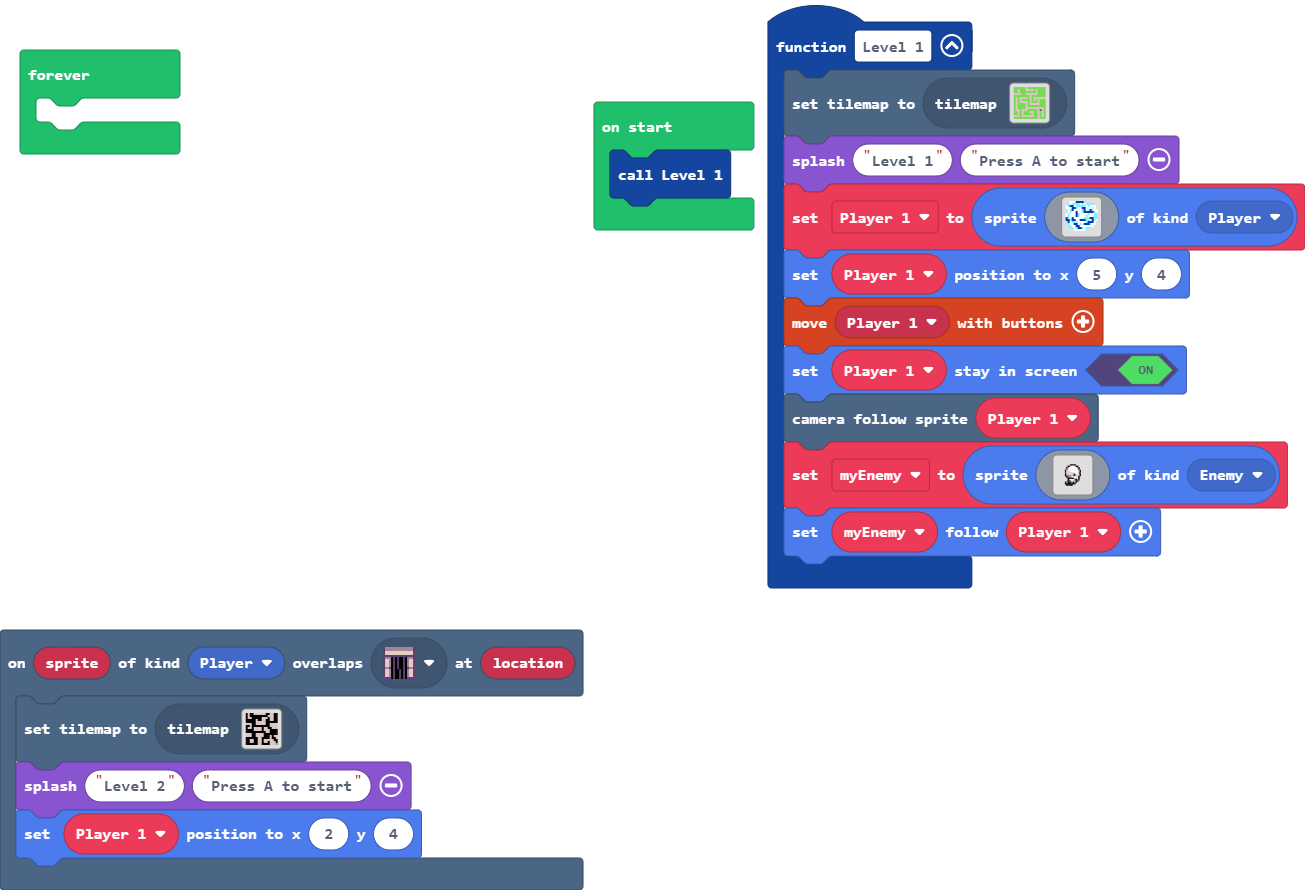
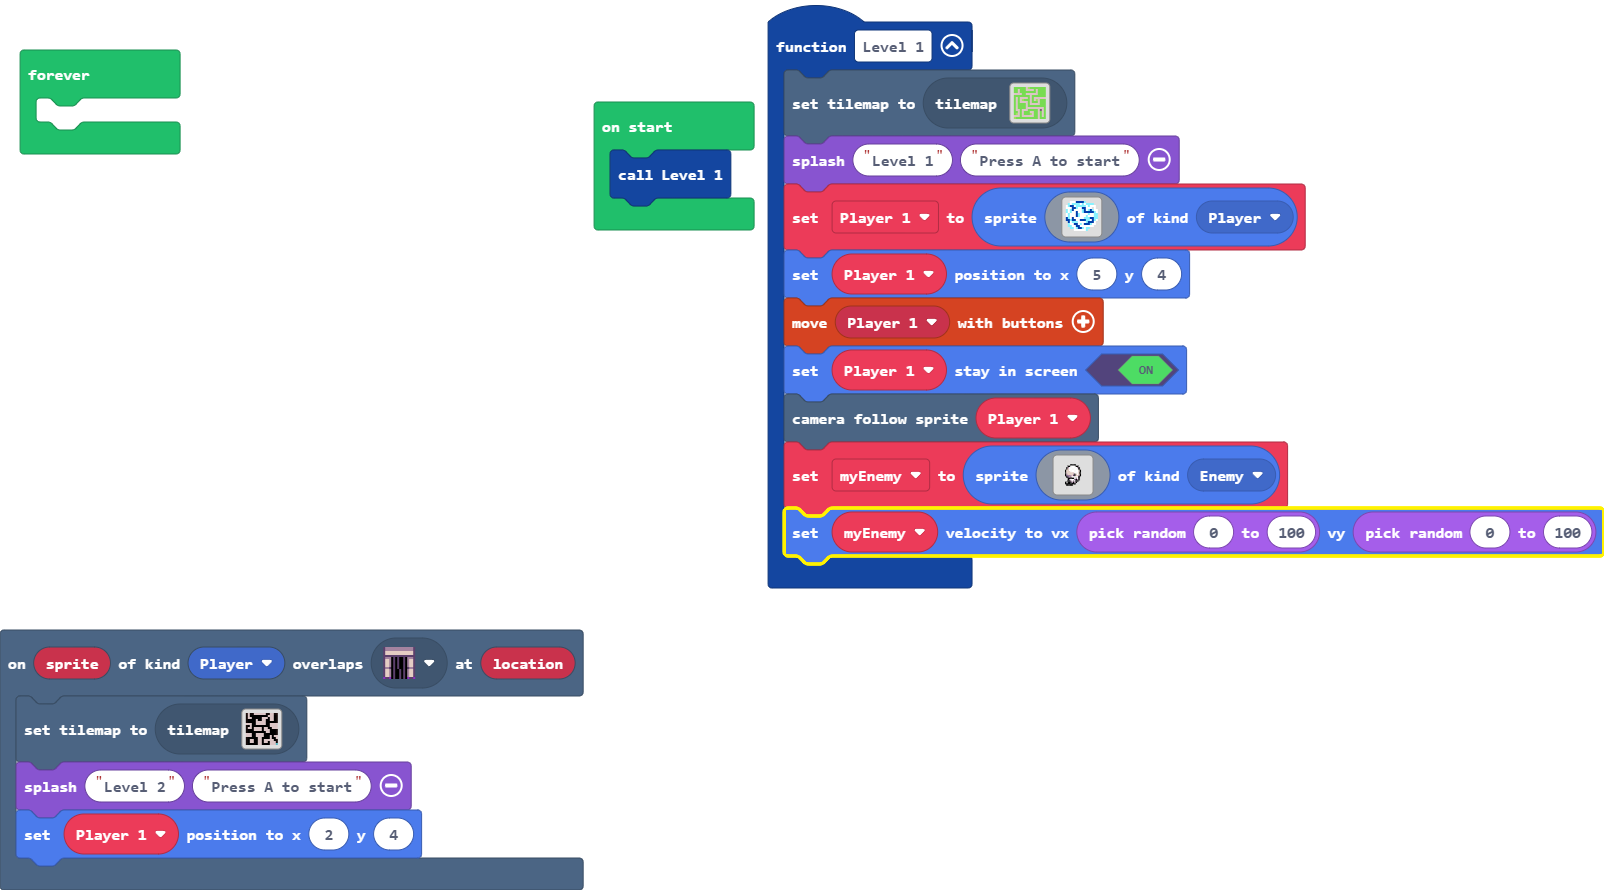
Update main.blocks, main.ts

diff --git a/main.ts b/main.ts
@@ -54,7 +54,7 @@ function Level_1 () {
         ........................
         ........................
         `, SpriteKind.Enemy)
-    myEnemy.follow(Player_1)
+    myEnemy.setVelocity(randint(0, 100), randint(0, 100))
 }
 let myEnemy: Sprite = null
 let Player_1: Sprite = null
